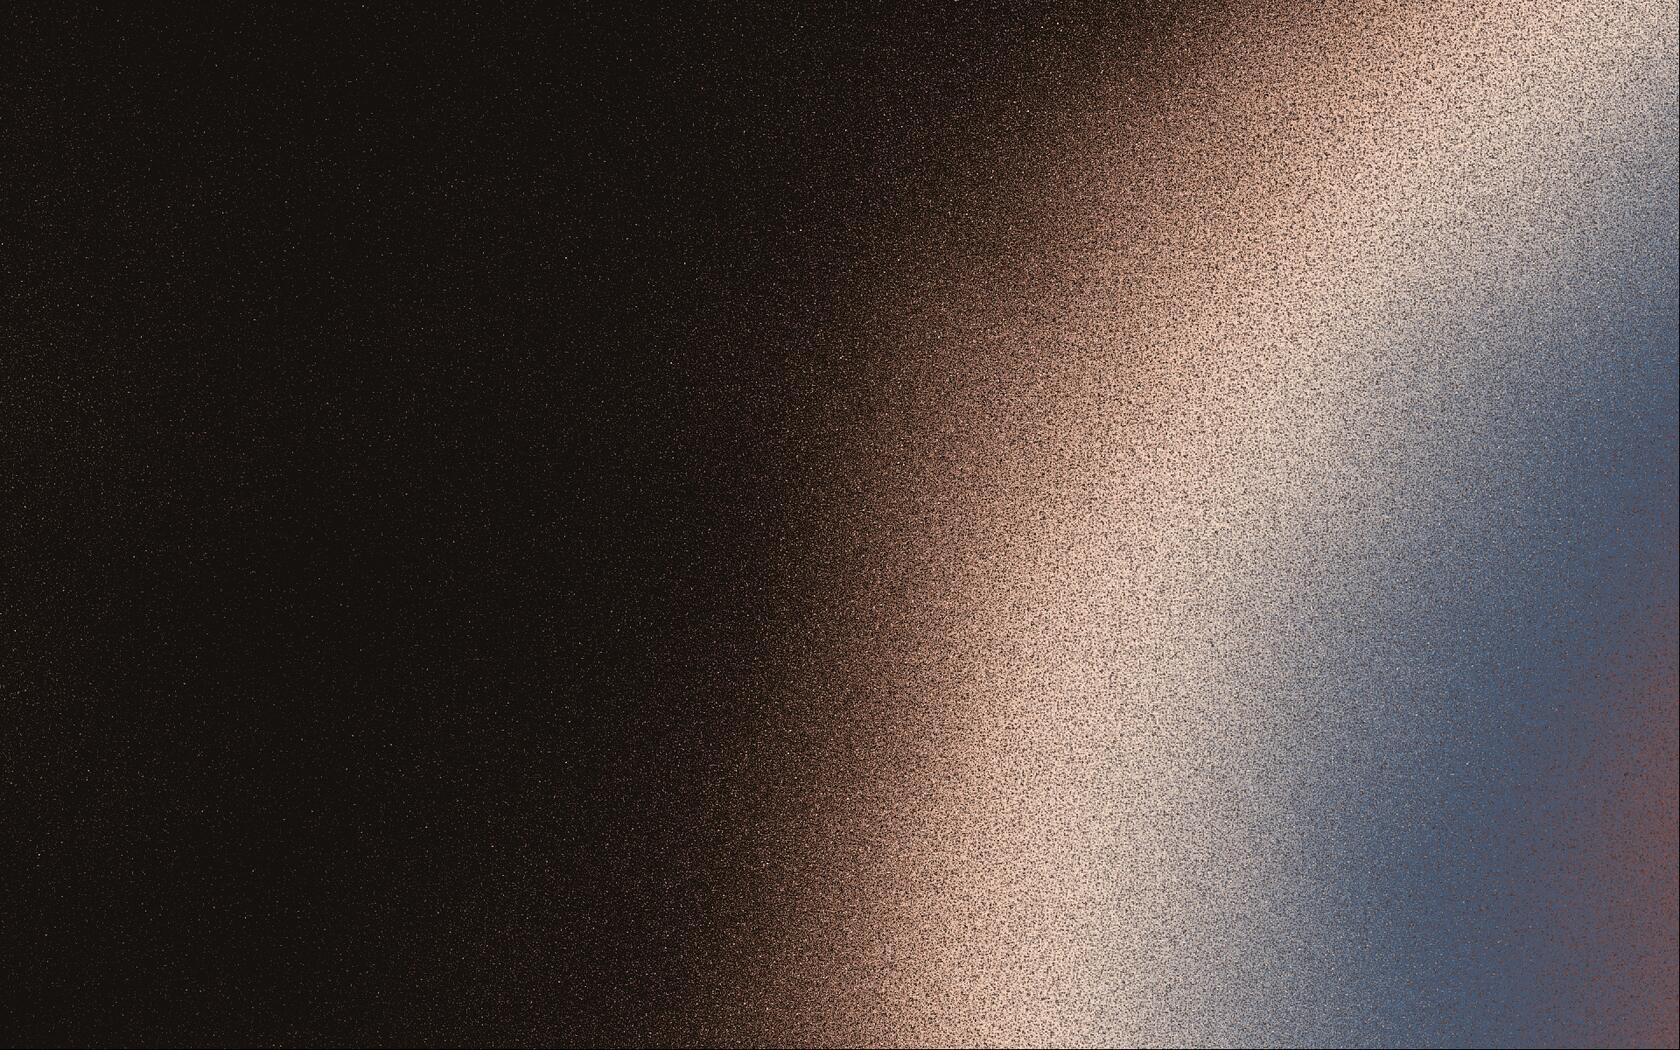
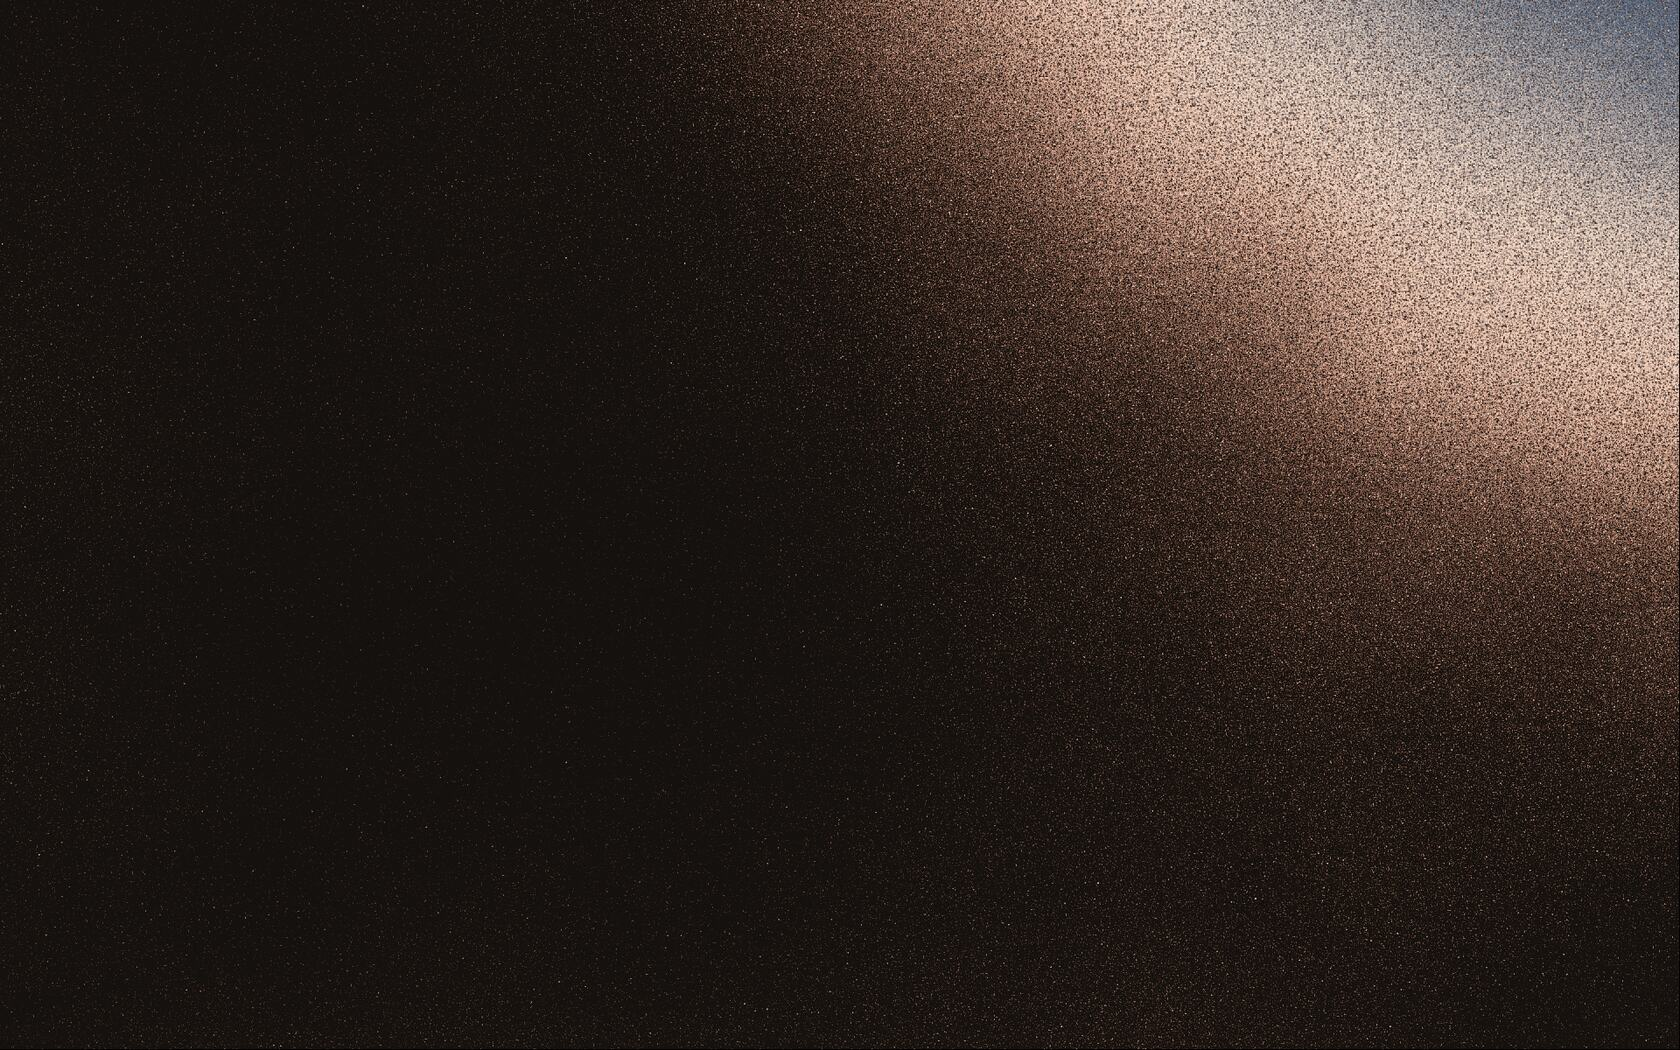
wip: the welcome page is a poster: the mark top left, Welcome. with one streamed line, the button alone bottom right (ENG-432)
The card is gone. GlyphText::fades draws byte ranges at a share of their
ink, so a line can stream in over a picture, where no surface colour can
be blended over it. The picture is a new cut of the gradient: dark at the
left and under the button, its light in the top right.

diff --git a/src/welcome_page/structs.rs b/src/welcome_page/structs.rs
@@ -1,14 +1,14 @@
 use std::{rc::Rc, time::Instant};
 
 use gpui_kit::{
-    App, ElementId, HighlightStyle, InteractiveElement, IntoElement, ObjectFit, ParentElement, RenderOnce,
-    SharedString, Styled, Window, div,
+    App, ElementId, FontWeight, InteractiveElement, IntoElement, ObjectFit, ParentElement, RenderOnce, SharedString,
+    Styled, Window, div, relative,
 };
 
 use super::{
     consts::{
-        ACTION_TOP, CARD_CORNER, CARD_PAD, CARD_WIDTH, HERO_PATH, HERO_RATIO, MARK_SIZE, TEXT_LINE, TEXT_SIZE,
-        TEXT_TOP,
+        EDGE, HERO_PATH, HERO_RATIO, MARK_SIZE, SIDE, TEXT_ALPHA, TEXT_LINE, TEXT_SIZE, TEXT_TOP, TEXT_WIDTH,
+        TITLE_PULL, TITLE_SIZE, TITLE_TOP,
     },
     helpers::{action, moving, shown},
 };
@@ -18,22 +18,23 @@ use crate::{
     motion,
     scale::px,
     stream_text::Flow,
-    theme::{Appearance, Theme, popover_shadow},
+    theme::{Appearance, Theme},
     typography::FONT_FAMILY,
 };
 
 type Continue = Rc<dyn Fn(&mut Window, &mut App)>;
 
-/// The first page: the gradient, and one card with the mark, the words and one button.
+/// The first page: the gradient, the mark, a title with one line, and one button.
 #[derive(IntoElement)]
 pub struct WelcomePage {
     id: ElementId,
+    title: SharedString,
     text: SharedString,
     action: SharedString,
     on_continue: Option<Continue>,
 }
 
-/// When the page first drew, and which pieces of the words are still fading in.
+/// When the page first drew, and which pieces of the line are still fading in.
 struct Motion {
     start: Instant,
     flow: Flow,
@@ -43,13 +44,17 @@ impl WelcomePage {
     pub fn new(id: impl Into<ElementId>) -> Self {
         Self {
             id: id.into(),
-            text: "Welcome to atelier, your workshop for building with agents. Open a folder, start a session, and craft."
-                .into(),
+            title: "Welcome.".into(),
+            text: "Your workshop for building with agents.".into(),
             action: "Start crafting".into(),
             on_continue: None,
         }
     }
-    /// The words of welcome. They stream in one at a time.
+    pub fn title(mut self, title: impl Into<SharedString>) -> Self {
+        self.title = title.into();
+        self
+    }
+    /// The line under the title. It streams in one word at a time.
     pub fn text(mut self, text: impl Into<SharedString>) -> Self {
         self.text = text.into();
         self
@@ -75,25 +80,20 @@ impl RenderOnce for WelcomePage {
         // The words in so far: the flow notes each new piece, and says how far each is through its fade.
         let text = self.text;
         let cut = shown(&text, elapsed, reduce);
-        let pieces = motion.update(cx, |m, _| {
+        let mut fades = motion.update(cx, |m, _| {
             m.flow.observe(&text[..cut], now);
             m.flow.alphas(&text[..cut], 0, now)
         });
-        let fading = motion.read(cx).flow.is_fading(now);
-        if fading || moving(&text, elapsed, reduce) {
+        // The words not in yet keep their place, with no ink, so the line never moves as it fills.
+        if cut < text.len() {
+            fades.push((cut..text.len(), 0.));
+        }
+        if motion.read(cx).flow.is_fading(now) || moving(&text, elapsed, reduce) {
             window.request_animation_frame();
         }
-        // The picture is dark whatever the theme, so the card and the words on it are the dark theme's.
+        // The picture is dark whatever the theme, so the words and the button on it are the dark theme's.
         let dark = Theme::of(Appearance::Dark);
-        let (light, ground, surface) = (dark.foreground, dark.background, dark.popover);
-        // A piece fades by taking the card's tone at the strength it has left to go; the words not in yet take it whole.
-        let mut highlights: Vec<(std::ops::Range<usize>, HighlightStyle)> = pieces
-            .into_iter()
-            .map(|(range, alpha)| (range, HighlightStyle { color: Some(dark.popover.opacity(1. - alpha)), ..Default::default() }))
-            .collect();
-        if cut < text.len() {
-            highlights.push((cut..text.len(), HighlightStyle { color: Some(dark.popover), ..Default::default() }));
-        }
+        let (light, ground) = (dark.foreground, dark.background);
         let mut hero = gpui_kit::img(HERO_PATH).absolute().inset_0().size_full();
         hero.style().aspect_ratio = Some(HERO_RATIO);
         let hero = <gpui_kit::Img as gpui_kit::StyledImage>::object_fit(hero, ObjectFit::Cover);
@@ -102,8 +102,7 @@ impl RenderOnce for WelcomePage {
             .variant(ButtonVariant::Invert)
             .fill(light)
             .ink(ground)
-            .size(ButtonSize::Lg)
-            .wide()
+            .size(ButtonSize::Xl)
             .label(self.action)
             .trailing_icon(IconName::ArrowForward)
             .debug_name("welcome-continue")
@@ -112,34 +111,30 @@ impl RenderOnce for WelcomePage {
                     f(window, cx);
                 }
             });
-        let card = div()
-            .debug_selector(|| "welcome-card".into())
-            .w(px(CARD_WIDTH))
-            .p(px(CARD_PAD))
-            .rounded(px(CARD_CORNER))
-            .bg(surface)
-            .shadow(popover_shadow(&dark))
-            .flex()
-            .flex_col()
-            .items_start()
-            .child(div().debug_selector(|| "welcome-mark".into()).child(AtelierMark::new(MARK_SIZE)))
+        let words = div()
+            .absolute()
+            .left(px(SIDE))
+            .right(px(SIDE))
+            .top(relative(TITLE_TOP))
+            .child(
+                div()
+                    .debug_selector(|| "welcome-title".into())
+                    .ml(px(-TITLE_PULL))
+                    .text_size(px(TITLE_SIZE))
+                    .line_height(px(TITLE_SIZE))
+                    .font_weight(FontWeight::MEDIUM)
+                    .text_color(light)
+                    .child(self.title),
+            )
             .child(
                 div()
                     .debug_selector(|| "welcome-text".into())
                     .mt(px(TEXT_TOP))
-                    .w_full()
+                    .max_w(px(TEXT_WIDTH))
                     .text_size(px(TEXT_SIZE))
                     .line_height(px(TEXT_LINE))
-                    .text_color(light)
-                    .child(GlyphText::new(text.clone()).highlights(highlights)),
-            )
-            .child(
-                div()
-                    .debug_selector(|| "welcome-action".into())
-                    .mt(px(ACTION_TOP))
-                    .w_full()
-                    .opacity(action(&text, elapsed, reduce))
-                    .child(button),
+                    .text_color(light.opacity(TEXT_ALPHA))
+                    .child(GlyphText::new(text.clone()).fades(fades)),
             );
         div()
             .id(self.id)
@@ -150,6 +145,23 @@ impl RenderOnce for WelcomePage {
             .font_family(FONT_FAMILY)
             .bg(ground)
             .child(div().debug_selector(|| "welcome-picture".into()).absolute().inset_0().overflow_hidden().child(hero))
-            .child(div().absolute().inset_0().flex().items_center().justify_center().child(card))
+            .child(
+                div()
+                    .debug_selector(|| "welcome-mark".into())
+                    .absolute()
+                    .left(px(SIDE))
+                    .top(px(EDGE))
+                    .child(AtelierMark::new(MARK_SIZE)),
+            )
+            .child(words)
+            .child(
+                div()
+                    .debug_selector(|| "welcome-action".into())
+                    .absolute()
+                    .right(px(SIDE))
+                    .bottom(px(EDGE))
+                    .opacity(action(&text, elapsed, reduce))
+                    .child(button),
+            )
     }
 }

diff --git a/src/welcome_page/tests.rs b/src/welcome_page/tests.rs
@@ -80,26 +80,19 @@ fn open(cx: &mut TestAppContext) -> (Rc<Cell<u32>>, &mut gpui_kit::VisualTestCon
 }
 
 #[gpui_kit::test]
-fn one_card_stands_in_the_middle_of_the_picture_with_the_mark_the_words_and_the_button(cx: &mut TestAppContext) {
+fn the_mark_is_top_left_the_words_stand_under_it_and_the_button_is_alone_bottom_right(cx: &mut TestAppContext) {
     let (_, cx) = open(cx);
     let page = cx.debug_bounds("welcome-page").expect("the page is drawn");
     assert!(cx.debug_bounds("welcome-picture").is_some(), "the picture is drawn");
-    let card = cx.debug_bounds("welcome-card").expect("the card is drawn");
-    assert!((f32::from(card.center().x - page.center().x)).abs() <= 1., "the card is centred across");
-    assert!((f32::from(card.center().y - page.center().y)).abs() <= 1., "the card is centred down");
-    let parts: Vec<_> = ["welcome-mark", "welcome-text", "welcome-action"]
-        .iter()
-        .map(|name| cx.debug_bounds(name).unwrap_or_else(|| panic!("{name} is drawn")))
-        .collect();
-    for pair in parts.windows(2) {
-        assert!(pair[0].bottom() <= pair[1].top(), "each part stands under the one before");
-    }
-    for part in &parts {
-        assert!(card.contains(&part.center()), "a part stands in the card");
-        assert!((f32::from(part.left() - parts[0].left())).abs() <= 1., "the parts share the left edge");
-    }
-    let button = cx.debug_bounds("welcome-continue").expect("the button is drawn");
-    assert_eq!(button.size.width, parts[1].size.width, "the button is as wide as the words");
+    let [mark, title, text, button] = ["welcome-mark", "welcome-title", "welcome-text", "welcome-continue"]
+        .map(|name| cx.debug_bounds(name).unwrap_or_else(|| panic!("{name} is drawn")));
+    assert_eq!((f32::from(mark.left() - page.left()), f32::from(mark.top() - page.top())), (64., 56.), "the mark is top left");
+    assert!(mark.bottom() < title.top(), "the title is under the mark");
+    assert!(title.bottom() <= text.top(), "the line is under the title");
+    assert_eq!(text.left(), mark.left(), "the line shares the mark's left edge");
+    assert_eq!((f32::from(page.right() - button.right()), f32::from(page.bottom() - button.bottom())), (64., 56.), "the button is bottom right");
+    assert!(button.top() > text.bottom(), "the button is under the words");
+    assert!(button.left() > text.left() + (text.size.width / 2.), "and away from them, at the right");
 }
 
 #[gpui_kit::test]

diff --git a/src/glyph_text/structs.rs b/src/glyph_text/structs.rs
@@ -13,11 +13,12 @@ pub struct Shaped {
 pub struct GlyphText {
     text: SharedString,
     highlights: Vec<(Range<usize>, HighlightStyle)>,
+    fades: Vec<(Range<usize>, f32)>,
     ink: Option<Ink>,
 }
 impl GlyphText {
     pub fn new(text: impl Into<SharedString>) -> Self {
-        Self { text: text.into(), highlights: Vec::new(), ink: None }
+        Self { text: text.into(), highlights: Vec::new(), fades: Vec::new(), ink: None }
     }
     /// Colors byte ranges the way `StyledText::with_highlights` does: a highlight's color is blended over the text's.
     /// Only the color is used.
@@ -25,16 +26,26 @@ impl GlyphText {
         self.highlights = highlights.into_iter().collect();
         self
     }
+    /// Draws byte ranges at a share of their ink, 0 to 1: for text that fades in over a picture, where no one
+    /// surface colour can be blended over it. A range not named is at full ink.
+    pub fn fades(mut self, fades: impl IntoIterator<Item = (Range<usize>, f32)>) -> Self {
+        self.fades = fades.into_iter().collect();
+        self
+    }
     /// Colors each glyph from where it sits, after its highlights.
     pub fn ink(mut self, ink: Ink) -> Self {
         self.ink = Some(ink);
         self
     }
-    fn color_at(&self, index: usize, base: Hsla) -> Hsla {
-        match self.highlights.iter().find(|(range, _)| range.contains(&index)).and_then(|(_, h)| h.color) {
+    pub(super) fn color_at(&self, index: usize, base: Hsla) -> Hsla {
+        let mut color = match self.highlights.iter().find(|(range, _)| range.contains(&index)).and_then(|(_, h)| h.color) {
             Some(color) => base.blend(color),
             None => base,
+        };
+        if let Some((_, share)) = self.fades.iter().find(|(range, _)| range.contains(&index)) {
+            color.a *= share.clamp(0., 1.);
         }
+        color
     }
 }
 impl IntoElement for GlyphText {

diff --git a/src/welcome_page/consts.rs b/src/welcome_page/consts.rs
@@ -2,17 +2,22 @@
 pub const HERO_PATH: &str = "welcome-hero.jpg";
 /// The picture's ratio; gpui gives an image the ratio of its file unless one is set.
 pub(super) const HERO_RATIO: f32 = 1680. / 1050.;
-/// The card: its width, its corner (the modal's) and the space inside it. It is opaque, so a word not in yet,
-/// drawn in the card's own tone, is not there at all.
-pub(super) const CARD_WIDTH: f32 = 440.;
-pub(super) const CARD_CORNER: f32 = crate::modal::CORNER;
-pub(super) const CARD_PAD: f32 = 32.;
-/// The mark, the words and the button, and the gaps between them, in design pixels.
-pub(super) const MARK_SIZE: f32 = 56.;
-pub(super) const TEXT_SIZE: f32 = 17.;
-pub(super) const TEXT_LINE: f32 = 26.;
-pub(super) const TEXT_TOP: f32 = 24.;
-pub(super) const ACTION_TOP: f32 = 28.;
+/// The space at the left and right of the page, and over the mark and under the button, in design pixels.
+pub(super) const SIDE: f32 = 64.;
+pub(super) const EDGE: f32 = 56.;
+/// The mark at the top left.
+pub(super) const MARK_SIZE: f32 = 40.;
+/// The title: its size, how far down the page it starts as a share of the page's height, and how far left its
+/// first letter is pulled so its stem lines up with the mark.
+pub(super) const TITLE_SIZE: f32 = 92.;
+pub(super) const TITLE_TOP: f32 = 0.235;
+pub(super) const TITLE_PULL: f32 = 5.;
+/// The line under the title: its size, its line, the space over it, how wide it may run and how strong its ink is.
+pub(super) const TEXT_SIZE: f32 = 24.;
+pub(super) const TEXT_LINE: f32 = 34.;
+pub(super) const TEXT_TOP: f32 = 22.;
+pub(super) const TEXT_WIDTH: f32 = 600.;
+pub(super) const TEXT_ALPHA: f32 = 0.88;
 /// The timeline, in seconds from the first frame: when the first word comes, how long between two words, how long
 /// after the last word the button comes, and how long it takes to come.
 pub(super) const WORDS_AT: f32 = 0.6;

diff --git a/src/welcome_page.rs b/src/welcome_page.rs
@@ -1,15 +1,15 @@
-//! WelcomePage: the first thing a person sees. The changelog's grain gradient fills the window, and in its middle
-//! stands one card with no border: the Atelier mark, a few words of welcome that stream in as an agent's answer
-//! does, and one button that comes once the words are in. There is nothing else on the page: it asks for no
-//! choice, only a press.
+//! WelcomePage: the first thing a person sees. The changelog's grain gradient fills the window, dark at the left
+//! and under the button, with its light in the top right. On it stand the Atelier mark at the top left, the word
+//! "Welcome." set large with one line under it, and one button alone at the bottom right. There is nothing else
+//! on the page: it asks for no choice, only a press.
 //!
 //! - It fills its parent. Put it in the window's content area.
 //! - The picture is the one at [`HERO_PATH`], served by [`Assets`](crate::Assets): the gradient rendered for a
 //!   whole window.
-//! - The words come in one at a time, and each piece fades in over the same 100ms the answer's tail uses
-//!   ([`Flow`](crate::stream_text::Flow)). What is shown at a moment is a pure function of the time since the first
-//!   frame ([`helpers::shown`]), so a test reads it without a window. Under Reduce Motion everything stands from
-//!   the first frame.
+//! - The line streams in as an agent's answer does: one word at a time, each piece fading in over the same 100ms
+//!   the answer's tail uses ([`Flow`](crate::stream_text::Flow)). The button comes once the line is in. What is
+//!   shown at a moment is a pure function of the time since the first frame ([`helpers::shown`]), so a test reads
+//!   it without a window. Under Reduce Motion everything stands from the first frame.
 mod consts;
 mod helpers;
 mod structs;

diff --git a/src/glyph_text/tests.rs b/src/glyph_text/tests.rs
@@ -51,3 +51,14 @@ fn colored_glyphs_lay_out_as_the_plain_text_does(cx: &mut TestAppContext) {
     }
     assert!(worst.is_empty(), "the two lay out differently:\n{}", worst.join("\n"));
 }
+
+#[test]
+fn a_fade_draws_its_range_at_a_share_of_the_ink_and_leaves_the_rest_whole() {
+    let ink = gpui_kit::white();
+    let text = GlyphText::new("Welcome here").fades([(8..12, 0.25), (0..0, 0.)]);
+    assert_eq!(text.color_at(0, ink).a, 1., "a letter outside every fade keeps its ink");
+    assert_eq!(text.color_at(8, ink).a, 0.25, "a letter in a fade takes its share");
+    assert_eq!(text.color_at(11, ink).a, 0.25);
+    let hidden = GlyphText::new("Welcome here").fades([(8..12, 0.)]);
+    assert_eq!(hidden.color_at(9, ink).a, 0., "a share of 0 draws nothing, and the letter keeps its place");
+}
